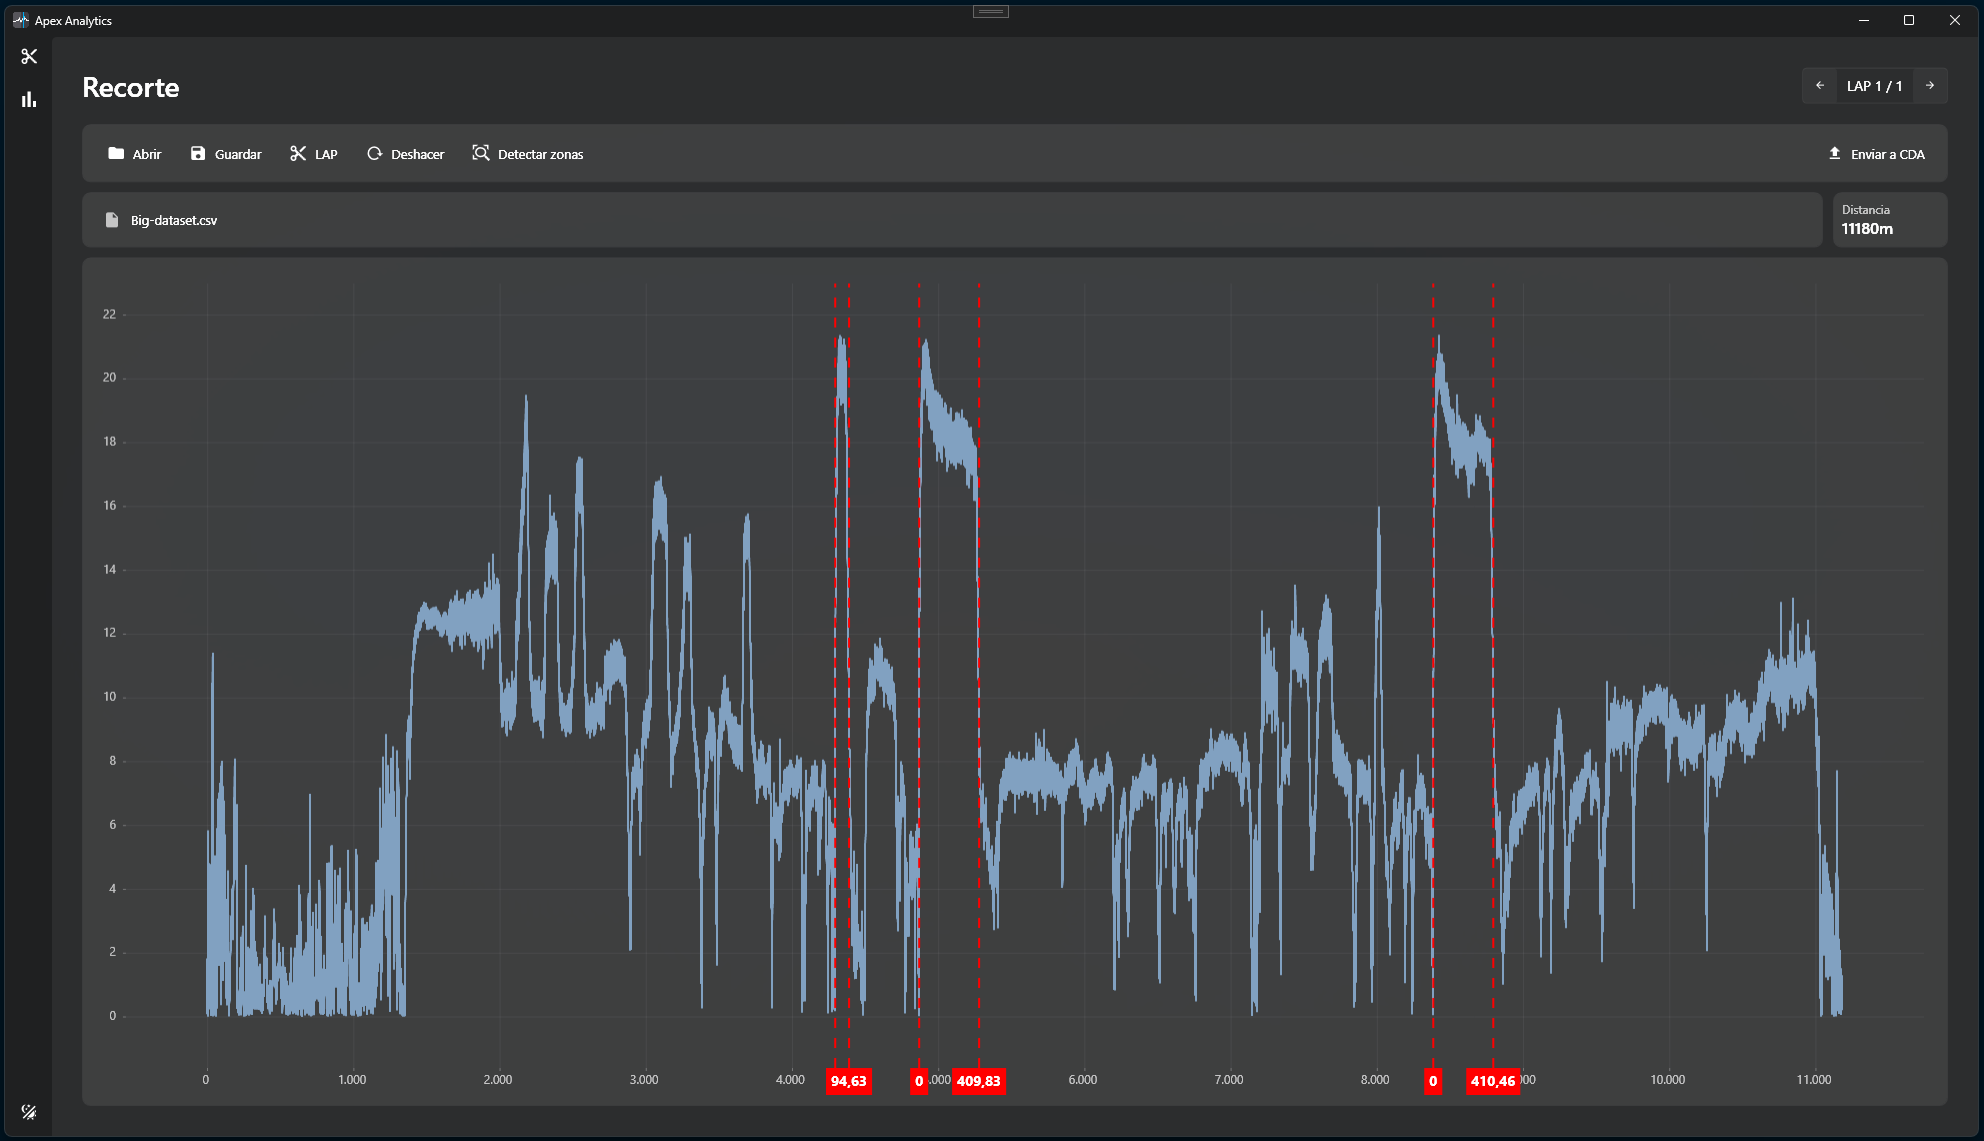
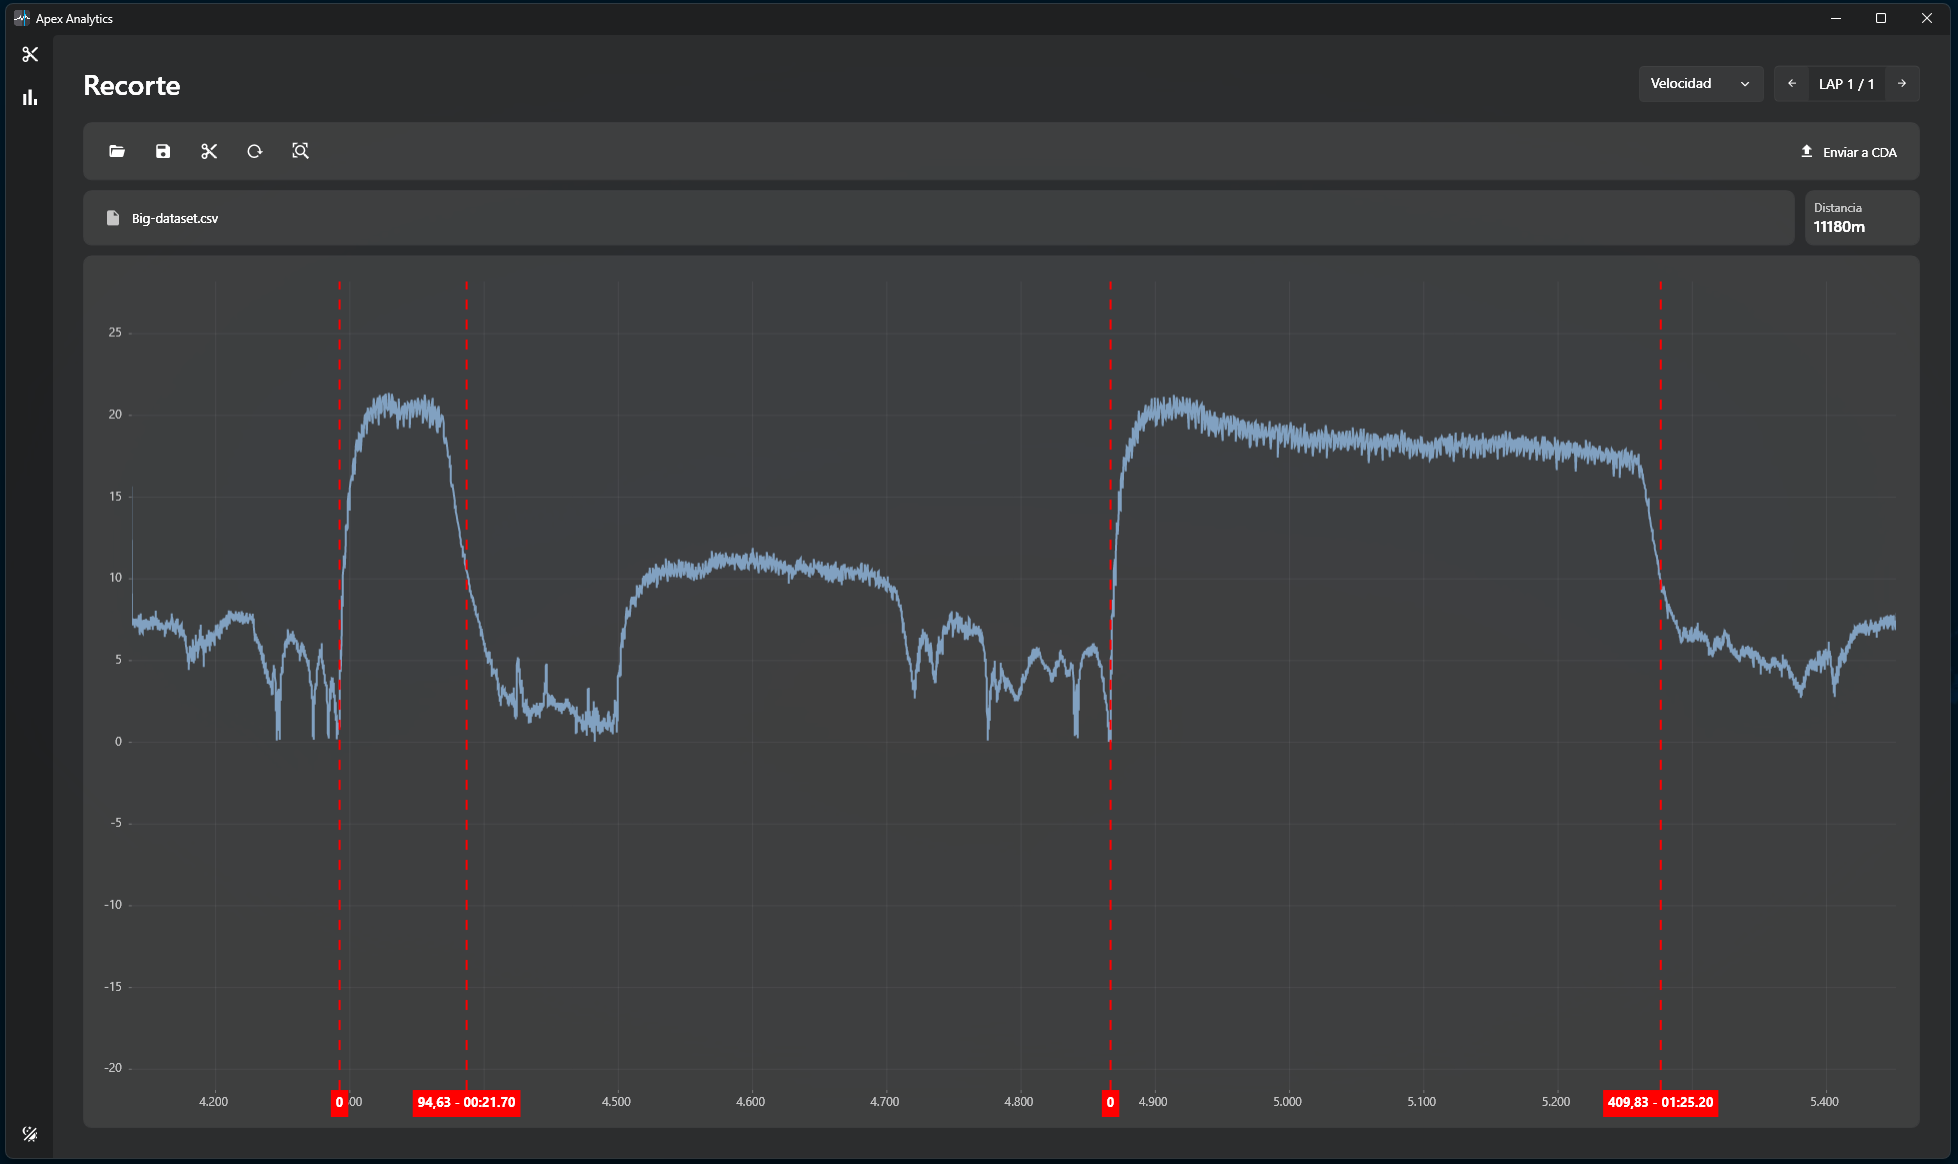
kayaking project: new features

diff --git a/src/pages/KayakingPage.tsx b/src/pages/KayakingPage.tsx
@@ -1,64 +1,85 @@
 import { Link } from "react-router-dom";
-import editor from "../assets/apex/1-editor.png";
-import bw from "../assets/apex/2-b&w.png";
+import editorAceleracion from "../assets/apex/1-editor-aceleracion.png";
+import editorVelocidad from "../assets/apex/1-editor-velocidad.png";
 import zonas from "../assets/apex/3-zonas.png";
 import recorte from "../assets/apex/4-recorte.png";
 import api from "../assets/apex/5-api.png";
 import analitica from "../assets/apex/6-analitica.png";
-import informe from "../assets/apex/7-informe.png";
+import informesDropdown from "../assets/apex/7-informes-dropdown.png";
+import informesGeneral from "../assets/apex/8-informes-general.png";
+import informesParciales from "../assets/apex/9-informes-parciales.png";
+import bw from "../assets/apex/10-b&w.png";
 
 function KayakingPage() {
   const screenshots = [
     {
-      image: editor,
-      title: "Editor principal",
+      image: editorVelocidad,
+      title: "Editor principal - Visualización de velocidad",
       description:
-        "Interfaz principal para la visualización de datos y controles de recorte. Permite la visualización interactiva de datos GPS con capacidad de zoom, navegación y recorte en una o varias zonas.",
+        "Interfaz principal mostrando la visualización de velocidad. Incluye controles de zoom, navegación y capacidad de multi-recorte para analizar múltiples zonas de interés en una misma sesión.",
     },
     {
-      image: bw,
-      title: "Interfaz moderna con modos claro y oscuro",
+      image: editorAceleracion,
+      title: "Editor principal - Visualización de aceleración",
       description:
-        "Diseño adaptable que incluye los modos claro y oscuro, optimizado para largas sesiones de análisis sin fatiga visual.",
+        "Vista alternativa del editor mostrando datos de aceleración. La aplicación permite alternar entre velocidad y aceleración en tiempo real para facilitar la detección de zonas de esfuerzo.",
     },
     {
       image: zonas,
       title: "Detección de zonas de esfuerzo",
       description:
-        "Algoritmo inteligente que identifica automáticamente las zonas de mayor esfuerzo durante la sesión de entrenamiento, facilitando el recorte de las zonas de interés.",
+        "Algoritmo inteligente que identifica automáticamente las zonas de mayor esfuerzo durante la sesión de entrenamiento, facilitando el recorte de las zonas de interés. El programa permite añadir marcadores de forma manual y ajustarlos libremente hasta alcanzar la distancia deseada.",
     },
     {
       image: recorte,
-      title: "Herramienta de recorte de datos",
+      title: "Sistema de multi-recorte",
       description:
-        "Permite ajustar con precisión el inicio y fin de la sesión para eliminar datos irrelevantes y mejorar la calidad del análisis.",
+        "Herramienta que permite crear múltiples zonas de recorte en una misma sesión. Los usuarios pueden ajustar con precisión el inicio y fin de cada parcial para analizar múltiples segmentos independientes.",
     },
     {
       image: api,
       title: "Integración con la web de la federación",
       description:
-        "Integración directa con el sistema web de la Federación para la subida de ficheros CSV procesados.",
+        "Integración directa con el sistema web de la Federación Balear de Piragüismo para la subida de ficheros CSV procesados.",
     },
     {
       image: analitica,
       title: "Panel de análisis general",
       description:
-        "Vista consolidada de estadísticas y detalles de la sesión, incluyendo velocidad, ritmo, distancia, desviación, y desglose en parciales",
+        "Vista consolidada de estadísticas y detalles de la sesión, incluyendo velocidad, ritmo, distancia, desviación y desglose completo en parciales. La vista permite desglosar la sesión en hasta 10 parciales.",
     },
     {
-      image: informe,
-      title: "Generación de informes",
+      image: informesDropdown,
+      title: "Menú de selección de informes",
       description:
-        "Sistema de informes detallados generados con tecnología web gracias al componente WebView2 de Microsoft, permitiendo usar HTML y CSS para crear informes visualmente atractivos.",
+        "Dropdown que permite al usuario elegir entre generar un informe general de toda la sesión o por parciales.",
+    },
+    {
+      image: informesGeneral,
+      title: "Informe general de la sesión",
+      description:
+        "Informe completo que muestra las estadísticas globales de toda la sesión, incluyendo métricas principales como tiempo, velocidad y paleo y desviación de la embarcación durante el recorrido.",
+    },
+    {
+      image: informesParciales,
+      title: "Informe detallado por parcial",
+      description:
+        "Informe específico por parciales. Analiza cada segmento de la sesión de forma individual.",
+    },
+    {
+      image: bw,
+      title: "Interfaz con modo claro",
+      description:
+        "Diseño adaptable que incluye tanto modo claro como oscuro, optimizado para largas sesiones de análisis sin fatiga visual en cualquier condición de iluminación.",
     },
   ];
 
   const keyFeatures = [
-    "Detección inteligente y recorte preciso de zonas de esfuerzo",
-    "Multi-recorte para sesiones con múltiples zonas de interés",
+    "Visualización alternativa entre velocidad y aceleración",
+    "Multi-recorte para análisis de múltiples parciales en una sesión",
+    "Detección inteligente de zonas de esfuerzo",
     "Cálculo de métricas avanzadas de paleo",
-    "Integración directa con la web de la federación",
-    "Generación de informes detallados",
+    "Informes personalizables: general o por parciales",
     "Alto rendimiento con archivos CSV de gran tamaño (100mb+)",
   ];
 
@@ -139,10 +160,73 @@ function KayakingPage() {
           </div>
         </div>
 
+        {/* Latest Features Highlight */}
+        <div className="bg-gradient-to-br from-cyan-900/20 to-blue-900/20 backdrop-blur-sm border border-cyan-800/50 rounded-2xl p-6 md:p-8 mb-12">
+          <h2 className="text-2xl font-semibold mb-6">Mejoras recientes</h2>
+          <div className="space-y-4">
+            <div className="flex items-start">
+              <div className="flex-shrink-0 w-8 h-8 rounded-full bg-cyan-500/20 flex items-center justify-center mr-4 mt-1">
+                <svg
+                  className="w-4 h-4 text-cyan-400"
+                  fill="none"
+                  stroke="currentColor"
+                  viewBox="0 0 24 24"
+                >
+                  <path
+                    strokeLinecap="round"
+                    strokeLinejoin="round"
+                    strokeWidth={2}
+                    d="M13 7h8m0 0v8m0-8l-8 8-4-4-6 6"
+                  />
+                </svg>
+              </div>
+              <div>
+                <h3 className="text-lg font-semibold text-white mb-2">
+                  Visualización de velocidad y aceleración
+                </h3>
+                <p className="text-zinc-300 leading-relaxed">
+                  El editor ahora permite alternar entre visualización de
+                  velocidad y aceleración, con el fin de facilitar la detección
+                  de zonas de esfuerzo para su posterior recorte y análisis.
+                </p>
+              </div>
+            </div>
+
+            <div className="flex items-start">
+              <div className="flex-shrink-0 w-8 h-8 rounded-full bg-cyan-500/20 flex items-center justify-center mr-4 mt-1">
+                <svg
+                  className="w-4 h-4 text-cyan-400"
+                  fill="none"
+                  stroke="currentColor"
+                  viewBox="0 0 24 24"
+                >
+                  <path
+                    strokeLinecap="round"
+                    strokeLinejoin="round"
+                    strokeWidth={2}
+                    d="M14 10l-2 1m0 0l-2-1m2 1v2.5M20 7l-2 1m2-1l-2-1m2 1v2.5M14 4l-2-1-2 1M4 7l2-1M4 7l2 1M4 7v2.5M12 21l-2-1m2 1l2-1m-2 1v-2.5M6 18l-2-1v-2.5M18 18l2-1v-2.5"
+                  />
+                </svg>
+              </div>
+              <div>
+                <h3 className="text-lg font-semibold text-white mb-2">
+                  Sistema de multi-recorte
+                </h3>
+                <p className="text-zinc-300 leading-relaxed">
+                  La aplicación ahora soporta la creación de múltiples zonas de
+                  recorte en una misma sesión, permitiendo analizar varios
+                  parciales independientes sin necesidad de procesar el archivo
+                  múltiples veces.
+                </p>
+              </div>
+            </div>
+          </div>
+        </div>
+
         {/* Key Features */}
         <div className="bg-blue-950/30 backdrop-blur-sm border border-blue-900/50 rounded-2xl p-6 md:p-8 mb-12">
           <h2 className="text-2xl font-semibold text-white mb-6">
-            Funcionalidades
+            Funcionalidades clave
           </h2>
           <div className="grid md:grid-cols-2 gap-4">
             {keyFeatures.map((feature, i) => (
@@ -270,10 +354,10 @@ function KayakingPage() {
         <div className="bg-gradient-to-br from-blue-900/30 to-cyan-900/30 backdrop-blur-sm border border-blue-800/50 rounded-2xl p-6 md:p-8">
           <h2 className="text-2xl font-semibold text-white mb-4">Resultado</h2>
           <p className="text-zinc-200 leading-relaxed text-lg">
-            El resultado fue una aplicación más rápida, intuitiva y fácil de
-            mantener, que ha sido muy bien recibida por la federación,
-            contribuyendo a mejorar el análisis de datos GPS en el ámbito del
-            piragüismo en las Islas Baleares.
+            El resultado ha sido una aplicación más rápida, intuitiva y fácil de
+            utilizar y mantener, que ha sido muy bien recibida por la
+            federación, contribuyendo a mejorar el análisis de datos GPS en el
+            ámbito del piragüismo en las Islas Baleares.
           </p>
         </div>
       </div>
